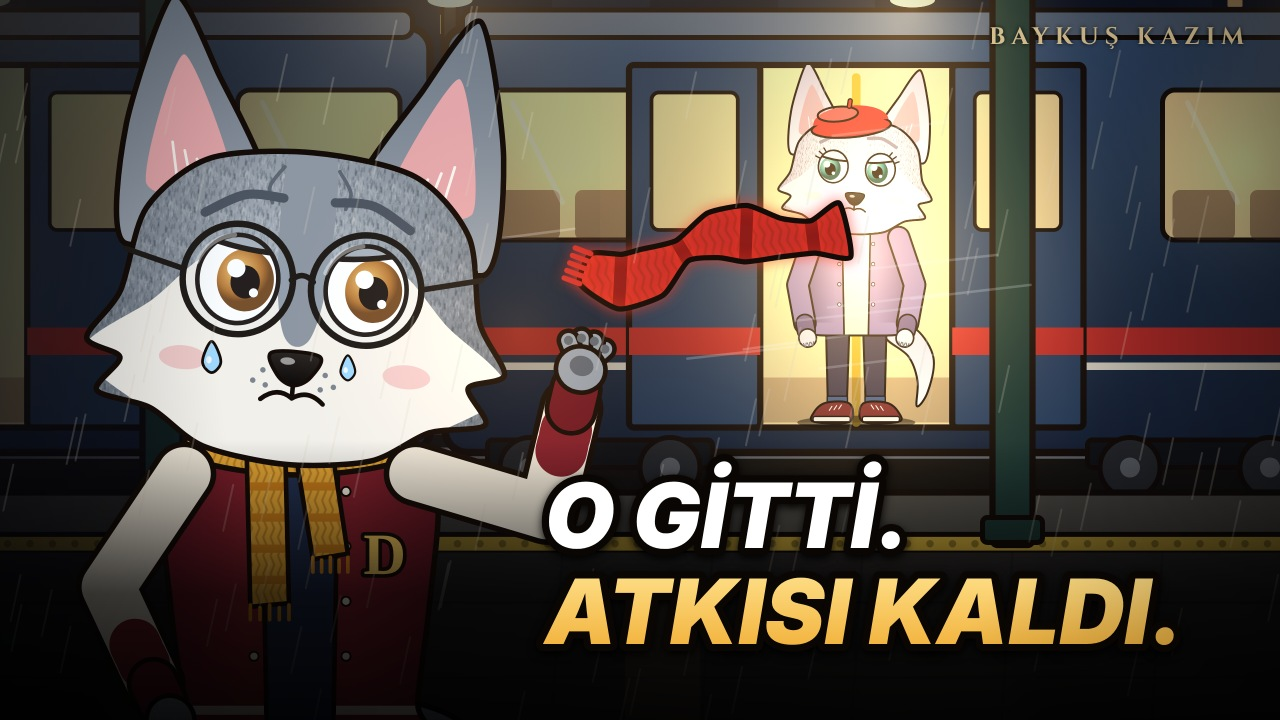
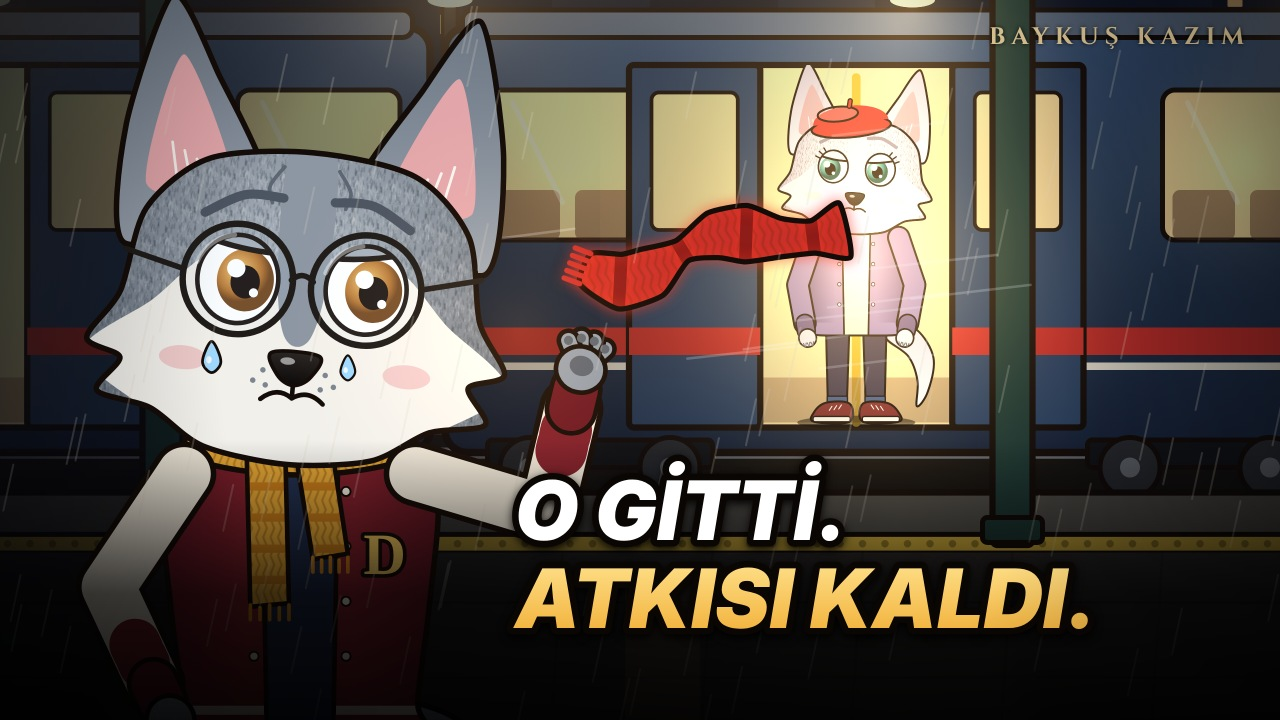
Peron: Instagram hikâye görseli; kapakta yazı süre etiketinden uzaklaştırıldı
Claude-Session: https://claude.ai/code/session_01TWA48h9Ztcdy2RcNUnCxUo

Changed region(s): [[0.375, 0.6111, 0.9375, 0.9167]]

diff --git a/banner/story_peron.html b/banner/story_peron.html
@@ -1,0 +1,68 @@
+<!DOCTYPE html>
+<html lang="tr"><head><meta charset="UTF-8">
+<title>Peron: Instagram hikâyesi</title>
+<link href="https://fonts.googleapis.com/css2?family=Cinzel:wght@600;700;900&family=Caveat:wght@700&family=Inter:wght@700;800&display=block" rel="stylesheet">
+<style>html,body{margin:0;background:#000}canvas{display:block}</style></head><body>
+<!-- Instagram hikâyesi (1080x1920): yeni YouTube videosunun duyurusu. Bağlantı çıkartması sağ alttaki kesikli kutuya konur.
+     Üst ~250 px ve alt ~340 px'i Instagram arayüzü örter. -->
+<canvas id="c" width="1080" height="1920"></canvas>
+<script src="../ortak/cizim.js"></script>
+<script src="../ortak/karakterler.js"></script>
+<script src="../ortak/sahneler.js"></script>
+<script src="../ortak/ara-sahneler.js"></script>
+<script src="../ortak/ara-sahneler-2.js"></script>
+<script src="../ortak/mehmetali.js"></script>
+<script src="../ortak/ara-sahneler-3.js"></script>
+<script src="../ortak/ara-sahneler-4.js"></script>
+<script src="../ortak/mekanlar.js"></script>
+<script src="../ortak/ara-sahneler-5.js"></script>
+<script>
+(async () => {
+  for (const f of ['900 170px Cinzel', '600 34px Cinzel', '700 76px Caveat', '800 36px Inter']) await document.fonts.load(f, 'AaÇĞİÖŞÜıâ');
+  await document.fonts.ready;
+  const cv = document.getElementById('c'); c = cv.getContext('2d'); c.lineJoin = c.lineCap = 'round'; initTextures();
+  const W = 1080, H = 1920, CX = W / 2, t = 1.4; LIGHTS = [];
+  const lights = () => { c.save(); c.setTransform(1, 0, 0, 1, 0, 0); c.globalCompositeOperation = 'lighter'; for (const g of LIGHTS) { c.fillStyle = rg(g.x, g.y, 0, g.r, [[0, g.col], [1, 'rgba(0,0,0,0)']]); c.fillRect(g.x - g.r, g.y - g.r, g.r * 2, g.r * 2); } c.restore(); LIGHTS = []; };
+  // istasyon + tren; kapıda geri bakan Ela (kapı ekranda ~ (760, 1000))
+  const Z = 1.15, X0 = -86, Y0 = -237;
+  c.setTransform(Z, 0, 0, Z, -X0 * Z, -Y0 * Z);
+  drawStation(t, { pal: 'night', min: 1427, train: () => drawTrain(-500, { cars: 3, doors: .8, whoCar: 1, lights: false, who: (cx, fy) => {
+    const pe = Object.assign({}, MOODS.demir.sad, { noScarf: true, t, talk: 0, lookX: -.75, lookY: .25, blink: 0, tilt: .07, L: { x: -148, y: -272, hand: 'relax' }, R: { x: 148, y: -272, hand: 'relax' } });
+    c.save(); c.beginPath(); c.rect(cx - 105, 490, 210, 290); c.clip(); c.translate(cx, fy); c.scale(.27, .27); drawEla(pe); c.restore();
+  } }) });
+  lights();
+  c.setTransform(1, 0, 0, 1, 0, 0);
+  // yazılar için üstü karart, kapı ışığını güçlendir
+  c.fillStyle = lg(0, 0, 0, 860, [[0, 'rgba(3,4,10,.96)'], [.75, 'rgba(3,4,10,.82)'], [1, 'rgba(3,4,10,0)']]); c.fillRect(0, 0, W, 860);
+  c.save(); c.globalCompositeOperation = 'lighter'; c.fillStyle = rg(760, 1000, 0, 360, [[0, 'rgba(255,196,110,.3)'], [1, 'rgba(0,0,0,0)']]); c.fillRect(380, 620, 700, 760); c.restore();
+  // ön planda Demir: gözü yaşlı, uçan atkıya uzanıyor
+  const DX = 250, DY = 1790, DS = 1.05;
+  const pd = Object.assign({}, MOODS.demir.sad, { t, talk: 0, lid: .1, brow: -.5, mouth: -12, lookX: .75, lookY: -.3, blink: 0, tilt: .08, nod: 0, L: { x: -150, y: -300, hand: 'relax' }, R: { x: 300, y: -640, hand: 'open' } });
+  // atkı: Ela'nın boynundan Demir'in patisine
+  c.save(); c.translate(718, 935); c.rotate(-.1); c.shadowColor = 'rgba(255,60,40,.6)'; c.shadowBlur = 26; windScarf(0, 0, 2.9, 175, 2.2, 30, 52); c.restore();
+  for (let i = 0; i < 7; i++) { const x = 600 + hash(i) * 260, y = 860 + hash(i + 4) * 160; line(x, y, x - 60, y + 14, 'rgba(255,255,255,.28)', 3); } // rüzgâr
+  c.save(); c.translate(DX, DY); c.scale(DS, DS); drawWolf(pd);
+  for (const [tx, ty, s] of [[-96, -676, 1], [52, -664, .8]]) { c.save(); c.translate(tx, ty); c.scale(s, s); blob([0, -16, 10, 6, 0, 18, -10, 6], '#9fd8ff', OL, 3); ell(-3, 4, 3, 4, 'rgba(255,255,255,.8)', null); c.restore(); }
+  c.restore(); lights();
+  // yağmur
+  c.save(); c.strokeStyle = 'rgba(225,215,195,.2)'; c.lineWidth = 2; c.beginPath(); for (let i = 0; i < 220; i++) { const x = hash(i + 300) * (W + 100), y = hash(i + 400) * H; c.moveTo(x, y); c.lineTo(x - 9, y + 46); } c.stroke(); c.restore();
+  // üst yazılar
+  const sp = (txt, x, y, font, fill, s = 0, glow) => { c.save(); c.font = font; c.letterSpacing = s + 'px'; c.textAlign = 'center'; if (glow) { c.shadowColor = glow; c.shadowBlur = 40; } c.fillStyle = fill; c.fillText(txt, x + s / 2, y); c.restore(); };
+  sp('BAYKUŞ KAZIM', CX, 300, '600 34px Cinzel,Georgia,serif', 'rgba(232,206,160,.9)', 12);
+  sp("YENİ VİDEO · YOUTUBE'DA", CX, 380, '800 36px Inter,Arial,sans-serif', '#ff5a4a', 6);
+  sp('PERON', CX, 560, '900 170px Cinzel,Georgia,serif', lg(0, 420, 0, 570, [[0, '#fff1c8'], [.5, '#f2c463'], [1, '#b47a26']]), 8, 'rgba(255,170,70,.65)');
+  sp('O gitti. Atkısı kaldı.', CX, 660, '700 76px Caveat,cursive', '#f3e6cc');
+  sp('5 dakikalık kısa animasyon film', CX, 724, '800 30px Inter,Arial,sans-serif', 'rgba(230,215,190,.85)', 2);
+  // bağlantı çıkartması alanı (sağ altta, Demir'in yanında)
+  const BX = 560, BY = 1395, BW = 470, BH = 150;
+  c.save(); c.fillStyle = 'rgba(8,8,14,.55)'; c.beginPath(); c.roundRect(BX, BY, BW, BH, 36); c.fill();
+  c.setLineDash([16, 12]); c.lineWidth = 4; c.strokeStyle = 'rgba(242,196,99,.9)'; c.stroke(); c.restore();
+  sp('İZLEMEK İÇİN DOKUN', BX + BW / 2, BY + BH / 2 + 12, '800 30px Inter,Arial,sans-serif', 'rgba(243,230,204,.45)', 3);
+  // oynat simgesi kutunun üstünde
+  rr(BX + BW / 2 - 52, BY - 96, 104, 72, 22, lg(0, BY - 96, 0, BY - 24, [[0, '#ff6a5a'], [1, '#c8302a']]), OL, 4); poly([BX + BW / 2 - 14, BY - 78, BX + BW / 2 - 14, BY - 42, BX + BW / 2 + 22, BY - 60], '#fff', null);
+  // kenar karartması + gren
+  c.fillStyle = rg(CX, H * .5, 500, 1250, [[0, 'rgba(0,0,0,0)'], [1, 'rgba(0,0,0,.5)']]); c.fillRect(0, 0, W, H);
+  c.save(); c.globalAlpha = .05; c.globalCompositeOperation = 'overlay'; c.fillStyle = c.createPattern(TEX.grain[0], 'repeat'); c.fillRect(0, 0, W, H); c.restore();
+  window.READY = true;
+})();
+</script></body></html>

diff --git a/banner/kapak_peron.html b/banner/kapak_peron.html
@@ -53,8 +53,8 @@
   c.fillStyle = lg(0, 440, 0, H, [[0, 'rgba(0,0,0,0)'], [.55, 'rgba(0,0,0,.72)'], [1, 'rgba(0,0,0,.9)']]); c.fillRect(0, 440, W, 280);
   const txt = (s, x, y, size, fill) => { c.save(); c.font = `italic 900 ${size}px Inter,Arial,sans-serif`; c.textAlign = 'left'; c.lineJoin = 'round';
     c.shadowColor = 'rgba(0,0,0,.9)'; c.shadowBlur = 18; c.shadowOffsetY = 6; c.lineWidth = size * .16; c.strokeStyle = '#0a0604'; c.strokeText(s, x, y); c.shadowColor = 'transparent'; c.fillStyle = fill; c.fillText(s, x, y); c.restore(); };
-  txt('O GİTTİ.', 545, 548, 90, '#ffffff');
-  txt('ATKISI KALDI.', 545, 644, 90, lg(0, 570, 0, 650, [[0, '#ffe08a'], [1, '#f2b23c']]));
+  txt('O GİTTİ.', 515, 540, 82, '#ffffff');
+  txt('ATKISI KALDI.', 515, 628, 82, lg(0, 560, 0, 635, [[0, '#ffe08a'], [1, '#f2b23c']]));
   // marka
   c.save(); c.font = '700 24px Cinzel,Georgia,serif'; c.letterSpacing = '6px'; c.textAlign = 'right'; c.fillStyle = 'rgba(240,214,160,.95)'; c.shadowColor = 'rgba(0,0,0,.9)'; c.shadowBlur = 10; c.fillText('BAYKUŞ KAZIM', W - 30, 44); c.restore();
   // kenar karartması
